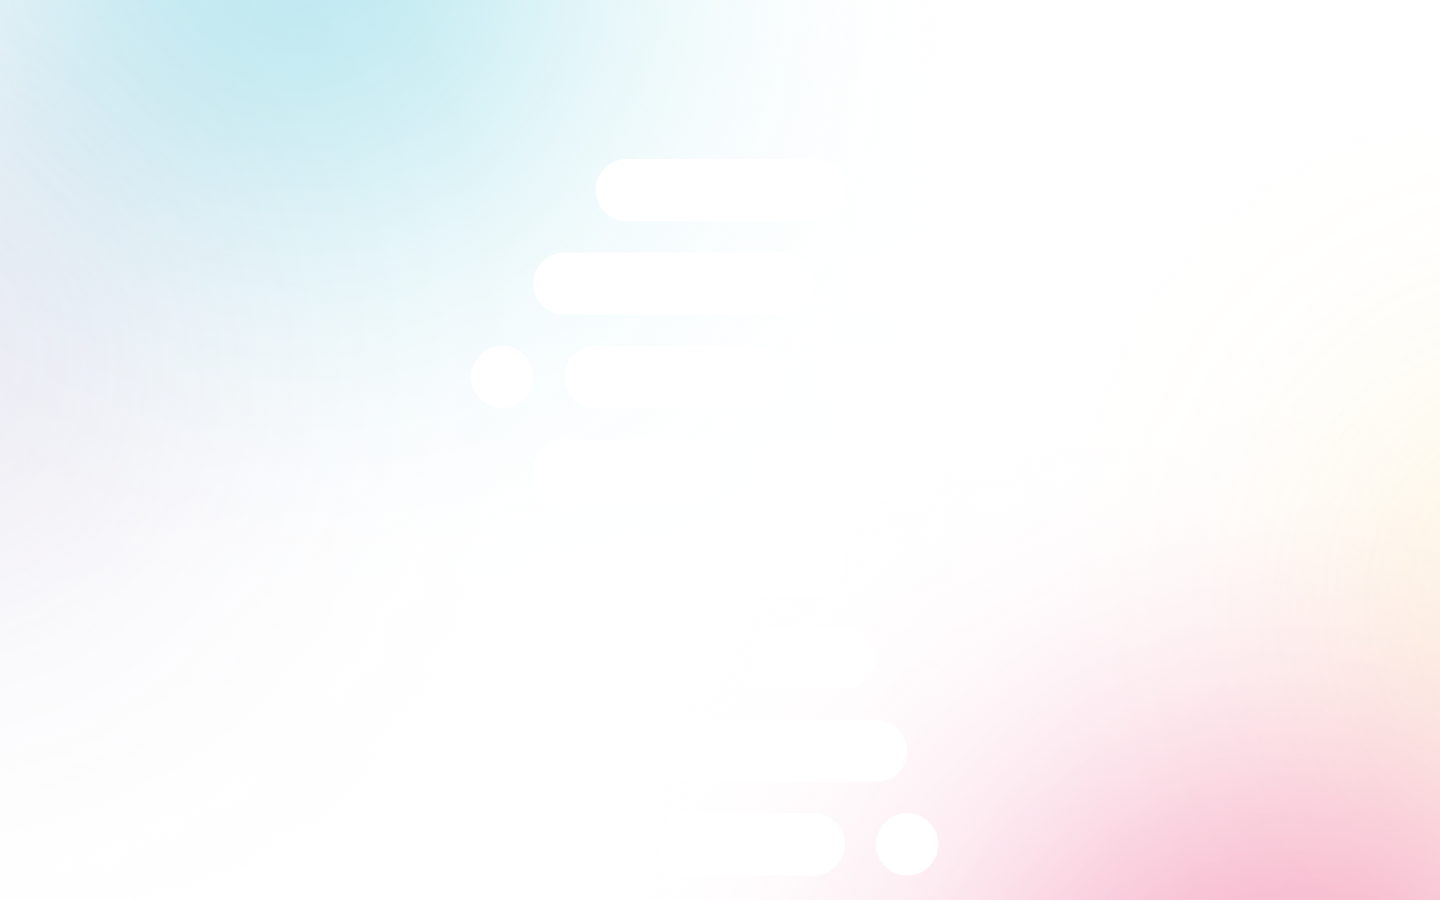
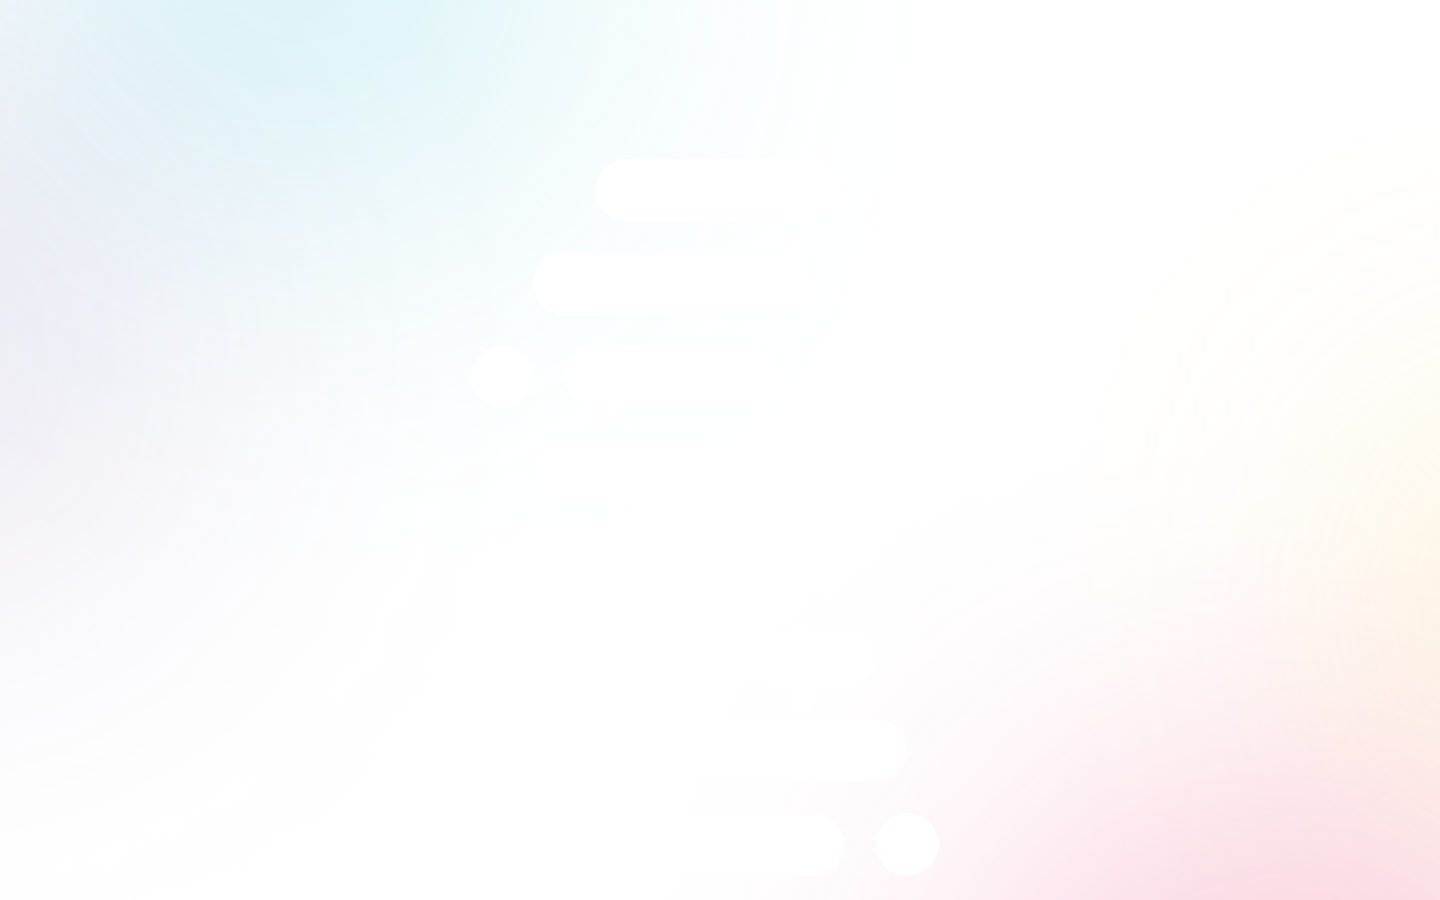
add color

Changed region(s): [[0.0938, 0.0, 0.3125, 0.1244], [0.7812, 0.9333, 1.0, 1.0]]

diff --git a/src/components/Hero.jsx b/src/components/Hero.jsx
@@ -4,7 +4,7 @@ import NavBar from './NavBar';
 
 const Hero = () => {
     return (
-        <div className=" bg-top bg-no-repeat bg-cover ">
+        <div className=" bg-top bg-[#F7F9FB] bg-no-repeat bg-cover ">
         <NavBar/>
         <div className="min-h-screen flex-wrap flex ">
            
